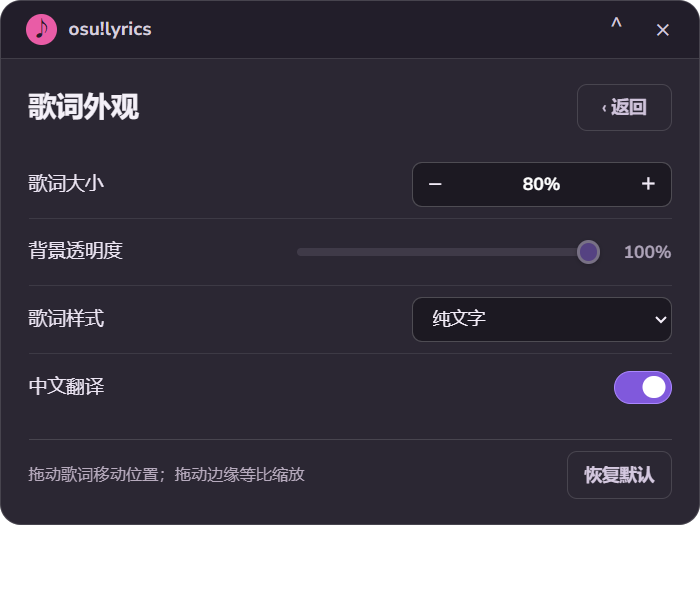
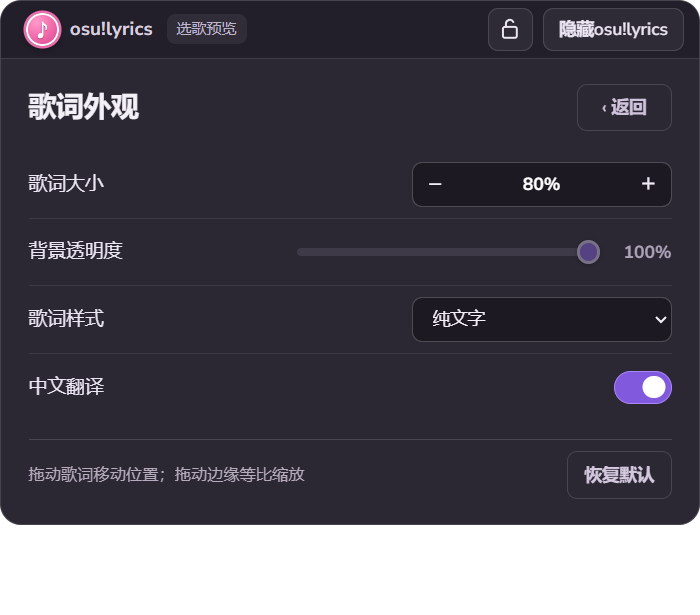
Rearrange player controls around song and status

diff --git a/src/ui/combined.css b/src/ui/combined.css
@@ -57,7 +57,7 @@ button:focus-visible, input:focus-visible, select:focus-visible { outline: 2px s
 .panel-header.dragging { cursor: grabbing; }
 .panel-header.drag-locked { cursor: default; }
 .identity, .header-actions { display: flex; align-items: center; }
-.identity { gap: 9px; }
+.identity { min-width: 0; gap: 9px; }
 .brand-dot {
   width: 26px;
   height: 26px;
@@ -100,29 +100,22 @@ button:focus-visible, input:focus-visible, select:focus-visible { outline: 2px s
 }
 .collapsed-toggle:hover { filter: brightness(1.12); transform: scale(1.06); }
 .brand-name { color: #d7cfdd; font-size: 15px; font-weight: 700; letter-spacing: .01em; }
-.header-actions { gap: 3px; }
-.icon-button {
-  width: 34px;
-  height: 32px;
-  display: grid;
-  place-items: center;
-  border: 0;
-  border-radius: 8px;
-  background: transparent;
-  color: #d3c9dd;
-  font-size: 20px;
-  line-height: 1;
-  transition: background .13s ease, color .13s ease;
-}
-.icon-button:hover { background: #ffffff19; color: #fff; }
-.icon-button.close:hover { background: #c84c80; }
+.phase-badge { flex: none; margin-left: 2px; padding: 4px 8px; border-radius: 7px; background: #ffffff11; color: #bfb4c9; font-size: 12px; font-weight: 500; white-space: nowrap; }
+.header-actions { flex: none; gap: 8px; }
+.header-lock { width: 36px; display: grid; place-items: center; padding: 0; }
+.header-lock svg { width: 19px; height: 19px; fill: none; stroke: currentColor; stroke-width: 2; stroke-linecap: round; stroke-linejoin: round; }
+.header-lock .lock-closed, .header-lock.selected .lock-open { display: none; }
+.header-lock.selected .lock-closed { display: block; }
+.header-lock.selected { border-color: #aa87ff; background: #594478; color: #fff; }
+.header-visibility { padding: 0 12px; font-size: 13px; }
 
 .panel-view { height: calc(100% - 46px); padding: 18px 22px 20px; animation: view-in .14s ease-out both; }
 .normal-view, .style-view, .candidate-view { display: flex; flex-direction: column; }
 @keyframes view-in { from { opacity: .55; transform: translateX(5px); } to { opacity: 1; transform: translateX(0); } }
 
 /* Main page: song → progress → lyric state → actions → daily controls. */
-.track-block { height: 79px; min-width: 0; }
+.track-block { height: 92px; min-width: 0; display: flex; align-items: flex-start; gap: 14px; }
+.track-info { min-width: 0; flex: 1; }
 .track-block h1 {
   display: -webkit-box;
   max-height: 56px;
@@ -135,15 +128,15 @@ button:focus-visible, input:focus-visible, select:focus-visible { outline: 2px s
   font-weight: 720;
   overflow-wrap: anywhere;
 }
-.track-meta { display: flex; align-items: center; gap: 16px; min-width: 0; margin-top: 4px; color: var(--muted); font-size: 14px; line-height: 18px; }
-.track-meta #trackArtist { min-width: 0; flex: 1; overflow: hidden; white-space: nowrap; text-overflow: ellipsis; }
-.phase-label { flex-shrink: 0; color: #a9a0b4; font-size: 13px; }
-.timeline { height: 24px; display: flex; align-items: center; gap: 12px; margin-top: 4px; color: #bdb2c7; font-size: 13px; font-variant-numeric: tabular-nums; }
+#trackArtist { display: block; margin-top: 4px; overflow: hidden; white-space: nowrap; text-overflow: ellipsis; color: var(--muted); font-size: 14px; line-height: 18px; }
+.track-style-button { flex: none; display: flex; align-items: center; gap: 10px; margin-top: 12px; padding: 0 13px; }
+.track-style-button span { color: #ad8dff; font-size: 21px; font-weight: 400; line-height: 1; }
+.timeline { height: 24px; display: flex; align-items: center; gap: 12px; margin-top: 10px; color: #bdb2c7; font-size: 13px; font-variant-numeric: tabular-nums; }
 .timeline span { min-width: 34px; }
 .timeline #duration { text-align: right; }
 .progress-track { height: 5px; flex: 1; overflow: hidden; border-radius: 10px; background: #17131d; }
 .progress-fill { width: 0; height: 100%; border-radius: inherit; background: var(--accent); }
-.lyric-state { height: 48px; display: flex; align-items: center; gap: 12px; margin-top: 13px; padding: 0 14px; border-radius: 9px; background: #ffffff0b; }
+.lyric-state { height: 48px; display: flex; align-items: center; gap: 12px; margin-top: 24px; padding: 0 14px; border-radius: 9px; background: #ffffff0b; }
 .status-dot { width: 8px; height: 8px; flex: none; border-radius: 50%; background: #93899f; }
 .lyric-state[data-status="ready"] .status-dot { background: #75d4ad; }
 .lyric-state[data-status="searching"] .status-dot, .lyric-state[data-status="loading"] .status-dot { background: #ffcc5b; }
@@ -151,9 +144,9 @@ button:focus-visible, input:focus-visible, select:focus-visible { outline: 2px s
 .status-copy { min-width: 0; display: flex; flex-direction: column; gap: 2px; }
 .status-copy strong { overflow: hidden; white-space: nowrap; text-overflow: ellipsis; font-size: 14px; line-height: 18px; font-weight: 650; }
 .status-detail { overflow: hidden; white-space: nowrap; text-overflow: ellipsis; color: #bdb2c7; font-size: 12.5px; line-height: 16px; }
-.action-slot { height: 40px; margin-top: 12px; }
+.action-slot { height: 40px; margin-top: 18px; }
 .action-row, .search-row, .setup-panel { height: 40px; display: flex; align-items: center; gap: 9px; }
-.action-button, .quiet-button, .control-button, .back-button, .style-footer button, .page-row button {
+.action-button, .quiet-button, .track-style-button, .header-lock, .header-visibility, .back-button, .style-footer button, .page-row button {
   height: 38px;
   border: 1px solid var(--border);
   border-radius: 8px;
@@ -164,7 +157,8 @@ button:focus-visible, input:focus-visible, select:focus-visible { outline: 2px s
   white-space: nowrap;
   transition: background .13s ease, border-color .13s ease, color .13s ease;
 }
-.action-button:hover:not(:disabled), .quiet-button:hover:not(:disabled), .control-button:hover:not(:disabled), .back-button:hover:not(:disabled), .style-footer button:hover:not(:disabled), .page-row button:hover:not(:disabled) { background: #ffffff1c; border-color: #ffffff4a; }
+.action-button:hover:not(:disabled), .quiet-button:hover:not(:disabled), .track-style-button:hover:not(:disabled), .header-lock:hover:not(:disabled), .header-visibility:hover:not(:disabled), .back-button:hover:not(:disabled), .style-footer button:hover:not(:disabled), .page-row button:hover:not(:disabled) { background: #ffffff1c; border-color: #ffffff4a; }
+.header-lock, .header-visibility { height: 34px; }
 .action-button { min-width: 118px; padding: 0 15px; }
 .action-button.primary, .normal-view.needs-lyrics .action-search { border-color: #aa87ff; background: #8159dc; color: #fff; }
 .action-button.primary:hover:not(:disabled), .normal-view.needs-lyrics .action-search:hover:not(:disabled) { background: #9672eb; }
@@ -176,11 +170,6 @@ button:focus-visible, input:focus-visible, select:focus-visible { outline: 2px s
 .search-row .quiet-button { min-width: 58px; }
 .setup-panel { justify-content: space-between; color: #d1c5dc; font-size: 13px; }
 .setup-panel .action-button { min-width: 82px; }
-.control-row { height: 40px; display: flex; align-items: center; gap: 8px; margin-top: 14px; }
-.control-button { padding: 0 15px; }
-.control-button.selected { border-color: #aa87ff; background: #594478; color: #fff; }
-.control-next { display: flex; align-items: center; gap: 12px; margin-left: auto; }
-.control-next span { color: #ad8dff; font-size: 22px; font-weight: 400; line-height: 1; }
 .offset-row { min-height: 47px; display: flex; align-items: center; justify-content: space-between; gap: 12px; margin-top: auto; padding-top: 10px; border-top: 1px solid var(--border); }
 .offset-label { display: flex; flex-direction: column; gap: 1px; min-width: 0; }
 .offset-label strong { font-size: 13px; line-height: 17px; font-weight: 650; }
@@ -242,13 +231,13 @@ button:focus-visible, input:focus-visible, select:focus-visible { outline: 2px s
 .panel-resize-handle.bottom-right { bottom: 0; right: 0; width: 14px; height: 14px; cursor: nwse-resize; }
 
 .panel-surface.compact .panel-view { padding: 12px 18px 14px; }
-.panel-surface.compact .track-block { height: 68px; }
+.panel-surface.compact .track-block { height: 76px; }
 .panel-surface.compact .track-block h1 { max-height: 48px; font-size: 20px; }
-.panel-surface.compact .track-meta { font-size: 13px; }
-.panel-surface.compact .timeline { margin-top: 2px; }
-.panel-surface.compact .lyric-state { height: 42px; margin-top: 8px; }
-.panel-surface.compact .action-slot { height: 38px; margin-top: 8px; }
-.panel-surface.compact .control-row { height: 38px; margin-top: 8px; }
+.panel-surface.compact #trackArtist { font-size: 13px; }
+.panel-surface.compact .track-style-button { height: 34px; margin-top: 7px; padding: 0 9px; font-size: 13px; }
+.panel-surface.compact .timeline { margin-top: 3px; }
+.panel-surface.compact .lyric-state { height: 42px; margin-top: 10px; }
+.panel-surface.compact .action-slot { height: 38px; margin-top: 10px; }
 .panel-surface.compact .offset-row { min-height: 42px; padding-top: 6px; }
 .panel-surface.compact .view-heading { height: 38px; }
 .panel-surface.compact .view-heading h1 { font-size: 20px; }

diff --git a/src/ui/combined.html b/src/ui/combined.html
@@ -11,12 +11,17 @@
   <div id="panelClip" class="panel-clip" hidden>
     <div id="panelSurface" class="panel-surface">
       <header id="panelHeader" class="panel-header" title="按住空白处拖动小窗">
-        <div class="identity"><button id="brandToggle" class="brand-dot" type="button" title="收起设置" aria-label="收起设置">♪</button><span class="brand-name">osu!lyrics</span></div>
-        <div class="header-actions"><button id="collapseButton" class="icon-button" title="收起设置" aria-label="收起设置">⌃</button><button id="closeButton" class="icon-button close" title="退出" aria-label="退出">×</button></div>
+        <div class="identity"><button id="brandToggle" class="brand-dot" type="button" title="收起设置" aria-label="收起设置">♪</button><span class="brand-name">osu!lyrics</span><span id="phaseBadge" class="phase-badge">等待 osu!</span></div>
+        <div class="header-actions">
+          <button id="lockButton" class="header-lock" type="button" title="锁定位置" aria-label="锁定位置" aria-pressed="false">
+            <svg viewBox="0 0 24 24" aria-hidden="true" focusable="false"><rect x="5" y="10" width="14" height="11" rx="2"/><path class="lock-closed" d="M8 10V7a4 4 0 0 1 8 0v3"/><path class="lock-open" d="M8 10V7a4 4 0 0 1 7.5-2"/></svg>
+          </button>
+          <button id="visibilityButton" class="header-visibility" type="button">隐藏osu!lyrics</button>
+        </div>
       </header>
 
       <section id="normalView" class="panel-view normal-view">
-        <div class="track-block"><h1 id="trackTitle">等待歌曲</h1><div class="track-meta"><span id="trackArtist">播放后自动识别</span><span id="phaseBadge" class="phase-label">等待 osu!</span></div></div>
+        <div class="track-block"><div class="track-info"><h1 id="trackTitle">等待歌曲</h1><span id="trackArtist">播放后自动识别</span></div><button id="styleButton" class="track-style-button">歌词外观<span aria-hidden="true">›</span></button></div>
         <div class="timeline"><span id="elapsed">0:00</span><div class="progress-track"><div id="progress" class="progress-fill"></div></div><span id="duration">--:--</span></div>
         <div id="lyricState" class="lyric-state" data-status="idle"><span class="status-dot"></span><div class="status-copy"><strong id="sourceLabel">等待歌曲</strong><span id="translationLabel" class="status-detail"></span></div></div>
         <div class="action-slot">
@@ -24,7 +29,6 @@
           <div id="searchRow" class="search-row" hidden><input id="searchInput" type="search" placeholder="输入曲名或歌手"><button id="submitSearch" class="action-button primary">搜索</button><button id="cancelSearch" class="quiet-button">取消</button></div>
           <div id="setupPanel" class="setup-panel" hidden><span id="setupDescription">连接 tosu 后读取歌曲</span><button id="setupButton" class="action-button primary">启动</button></div>
         </div>
-        <div class="control-row"><button id="lockButton" class="control-button">锁定位置</button><button id="visibilityButton" class="control-button">隐藏osu!lyrics</button><button id="styleButton" class="control-button control-next">歌词外观<span aria-hidden="true">›</span></button></div>
         <div class="offset-row"><div class="offset-label"><strong>歌词校时</strong><small>− 提前 0.5 秒 · ＋ 延后 0.5 秒</small></div><div class="stepper"><button id="offsetBack" aria-label="歌词提前半秒">−</button><output id="offsetValue">0.0s</output><button id="offsetForward" aria-label="歌词延后半秒">＋</button></div></div>
       </section>
 

diff --git a/src/ui/combined.js b/src/ui/combined.js
@@ -148,7 +148,9 @@ function renderStatus() {
 }
 
 function renderControls() {
-  $('lockButton').textContent = locked ? '解锁位置' : '锁定位置';
+  const lockLabel = locked ? '解锁位置' : '锁定位置';
+  $('lockButton').title = lockLabel;
+  $('lockButton').setAttribute('aria-label', lockLabel);
   $('lockButton').classList.toggle('selected', locked);
   $('lockButton').setAttribute('aria-pressed', String(locked));
   $('panelHeader').classList.toggle('drag-locked', locked);
@@ -232,7 +234,6 @@ function applyLayout(layout) {
   box.style.height = `${layout.lyric.height}px`;
   renderCollapsedToggle();
   if (widthChanged) queueLyricMeasure();
-  $('collapseButton').textContent = layout.side === 'above' ? '⌃' : '⌄';
 }
 
 function tick() {
@@ -376,10 +377,8 @@ $('lyricBox').addEventListener('keydown', event => {
   if (event.key === 'Enter' || event.key === ' ') { event.preventDefault(); api.panelToggle(true); }
 });
 
-$('collapseButton').addEventListener('click', () => api.panelToggle(false));
 $('brandToggle').addEventListener('click', () => api.panelToggle(false));
 $('collapsedToggle').addEventListener('click', () => api.panelToggle(true));
-$('closeButton').addEventListener('click', () => api.windowAction('close'));
 $('lockButton').addEventListener('click', () => api.overlayLock(!locked));
 $('visibilityButton').addEventListener('click', () => api.overlayShow(false));
 $('styleButton').addEventListener('click', () => setView('style'));

diff --git a/docs/interface-design.md b/docs/interface-design.md
@@ -1,4 +1,4 @@
-# 悬浮歌词控制面板设计（0.4.3）
+# 悬浮歌词控制面板设计
 
 目标：在展开的面板中看清歌曲、歌词状态与外观参数；收起后只留下歌词。
 
@@ -10,7 +10,7 @@
 
 ## 两页共用的骨架
 
-首次展开的面板高 420 像素，宽度随歌词变化，但保持在 560–720 像素之间。面板与歌词左边界对齐，让粉色音符能在两者之间竖直移动；贴近屏幕边缘时面板仍以可见区域为限，歌词的屏幕位置不变。面板内字号和控件不跟着歌词缩放。顶部 46 像素放轻量品牌、粉色音符收起按钮与窗口操作；收起时面板先缩到固定的顶部音符，音符再竖直移动至歌词左上角，展开时反向执行。下方两页使用同一内容边距、标题字级、控件高度与返回方式。切换页面时面板尺寸不变。
+首次展开的面板高 420 像素，宽度随歌词变化，但保持在 560–720 像素之间。面板与歌词左边界对齐，让粉色音符能在两者之间竖直移动；贴近屏幕边缘时面板仍以可见区域为限，歌词的屏幕位置不变。面板内字号和控件不跟着歌词缩放。顶部 46 像素放轻量品牌、播放阶段、图标锁与隐藏按钮；粉色音符兼作收起入口。收起时面板先缩到固定的顶部音符，音符再竖直移动至歌词左上角，展开时反向执行。下方两页使用同一内容边距、标题字级、控件高度与返回方式。切换页面时面板尺寸不变。
 
 面板顶部空白区域承担移动手柄；边框的八个方向承担缩放手柄。两种手势沿用歌词的位置和缩放计算，因而拖动标题栏会带着歌词一起走，边框缩放会让歌词与面板一起改变尺寸。面板尺寸单独持久化，范围是 500×370 至 1200×600 像素；接近下限时只收紧间距和字号层次，保留正常可读的控件，不出现纵向滚动条。点击“锁定位置”后，两种手势都不可用。
 
@@ -22,7 +22,7 @@
 - 去掉 `NOW PLAYING`、`APPEARANCE` 等与中文内容重复的小标题，以及覆盖内容区的斜线纹理。只有窗口外壳和歌词状态使用背景区分；设置行由对齐、间距和细分隔线组织。
 - 搜索和导入保留在同一操作区域；编辑放在右侧，默认仅作轻量文字按钮。歌词缺失或获取失败时才强调搜索。查找中、就绪、缺失和失败共用一个固定高度的状态位，避免整页跳动。
 - 进入歌词候选页后，如果曲目 key 改变，立即返回当前新歌的主界面；同一歌曲从选歌预览进入游玩不会触发返回。
-- 锁定、隐藏和外观进入同属日常控制，但以中性样式呈现。校时留在播放区底部，明确显示当前偏移以及减号提前、加号延后的意义。
+- 锁定与隐藏放在顶栏，外观入口贴近歌名；获取歌词与校时仍留在各自的内容位置。图标锁有选中状态，校时明确显示当前偏移以及减号提前、加号延后的意义。
 - 外观四项共用标签左边界和控件右边界。大小和透明度的当前值直接贴近控件；操作提示降为辅助信息，恢复默认留在页脚。真实悬浮歌词就是即时预览，因此没有重复造一个预览卡片。
 - 界面的“背景透明度”以用户所见为准：100% 表示完全透明；内部保存格式保持原有不透明度数值，因此升级不会改变已有外观。纯文字模式没有背景，滑块显示为不可操作状态。
 - 展开面板比旧版更高，会多占一部分游戏画面；收起后仍只显示歌词。这换来正常观看距离下可读的文字和舒适的点击区域。

diff --git a/README.md b/README.md
@@ -16,7 +16,7 @@
 
 展开设置面板时，可以按住顶部空白标题栏拖动整个窗口（歌词与面板一起移动）；拖动面板边框可以同步缩放面板与歌词。边框的八个方向有调整区域，按钮和其他控件不会触发拖动。面板会守住 500×370 像素的可读下限，避免缩出滚动条；调整后的面板尺寸会与歌词设置一起保存。
 
-按 **Ctrl+Alt+Shift+L** 可完整隐藏／显示悬浮歌词。Windows 通知区域的音符图标右键菜单也有“隐藏osu!lyrics／显示osu!lyrics”“打开小窗口”和“退出”。隐藏 osu!lyrics 不会清除锁定状态或外观配置。小窗口的 × 会退出整个工具。
+按 **Ctrl+Alt+Shift+L** 可完整隐藏／显示悬浮歌词。Windows 通知区域的音符图标右键菜单也有“隐藏osu!lyrics／显示osu!lyrics”“打开小窗口”和“退出”。隐藏 osu!lyrics 不会清除锁定状态或外观配置；需要退出整个工具时使用托盘菜单。
 
 “歌词外观”可调歌词大小、背景透明度、样式与中文翻译。透明度 100% 表示背景完全透明；纯文字样式没有背景，也没有文字阴影。长句会换行并让歌词区域增高，不再在两侧显示省略号。首次展开时面板宽度随歌词变化，通常为 560–720 像素；之后可从边框单独调整。位置、样式、面板尺寸、锁定、显示和控制区展开状态保存在 `%APPDATA%\osu-lyrics-companion\windows.json`，重启后继续使用。两页的布局取舍与截图见[界面设计说明](docs/interface-design.md)。视觉参考了 osu!lazer 的[设置界面](https://osu.ppy.sh/home/changelog/lazer/2023.1229.0)及其[官方配色](https://github.com/ppy/osu/blob/master/osu.Game/Graphics/OsuColour.cs)。便携版附带开源的 Nunito Sans 字体；Torus 仅在用户系统已有时使用，未从游戏复制。
 
